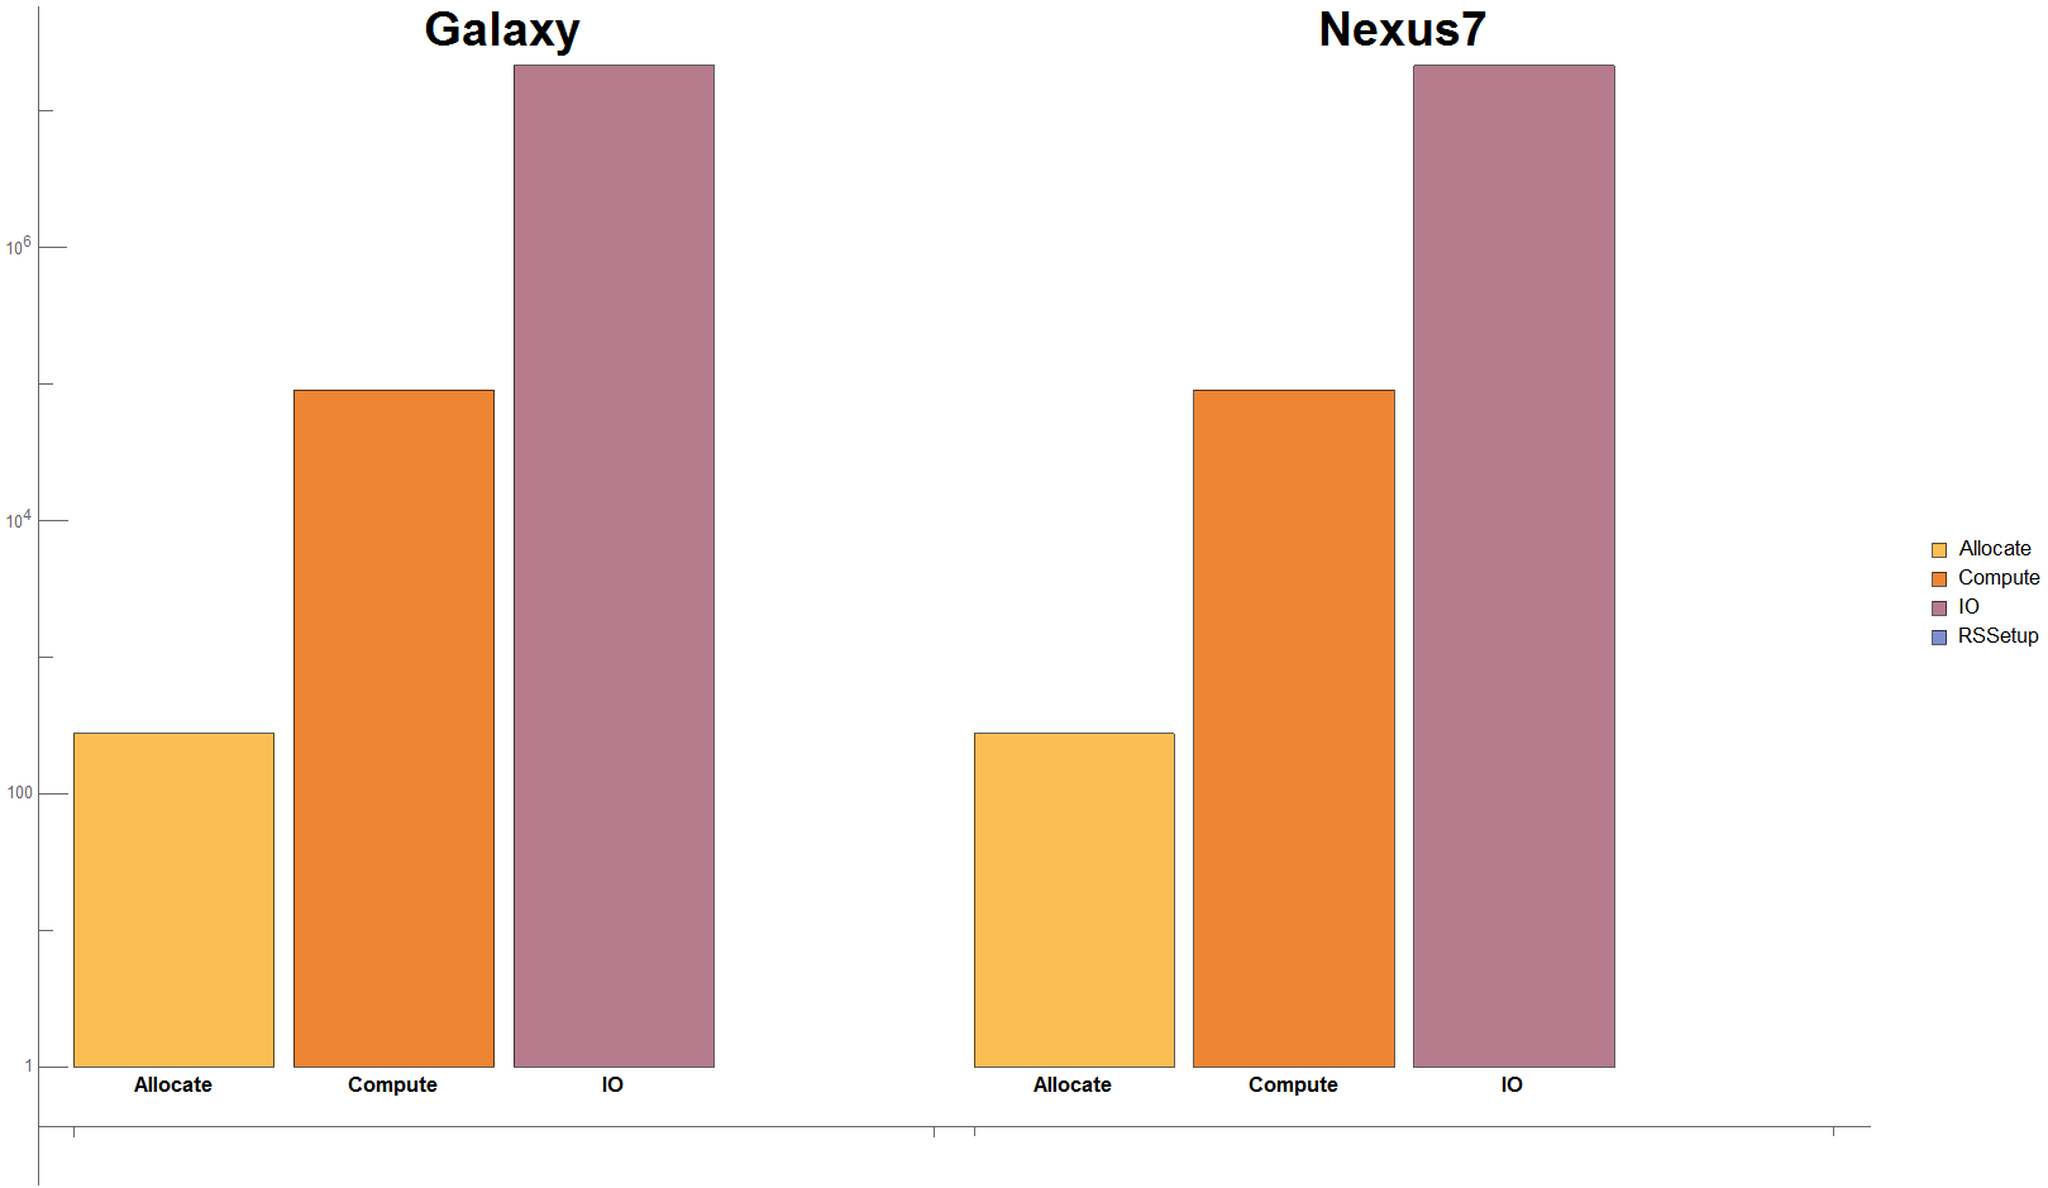
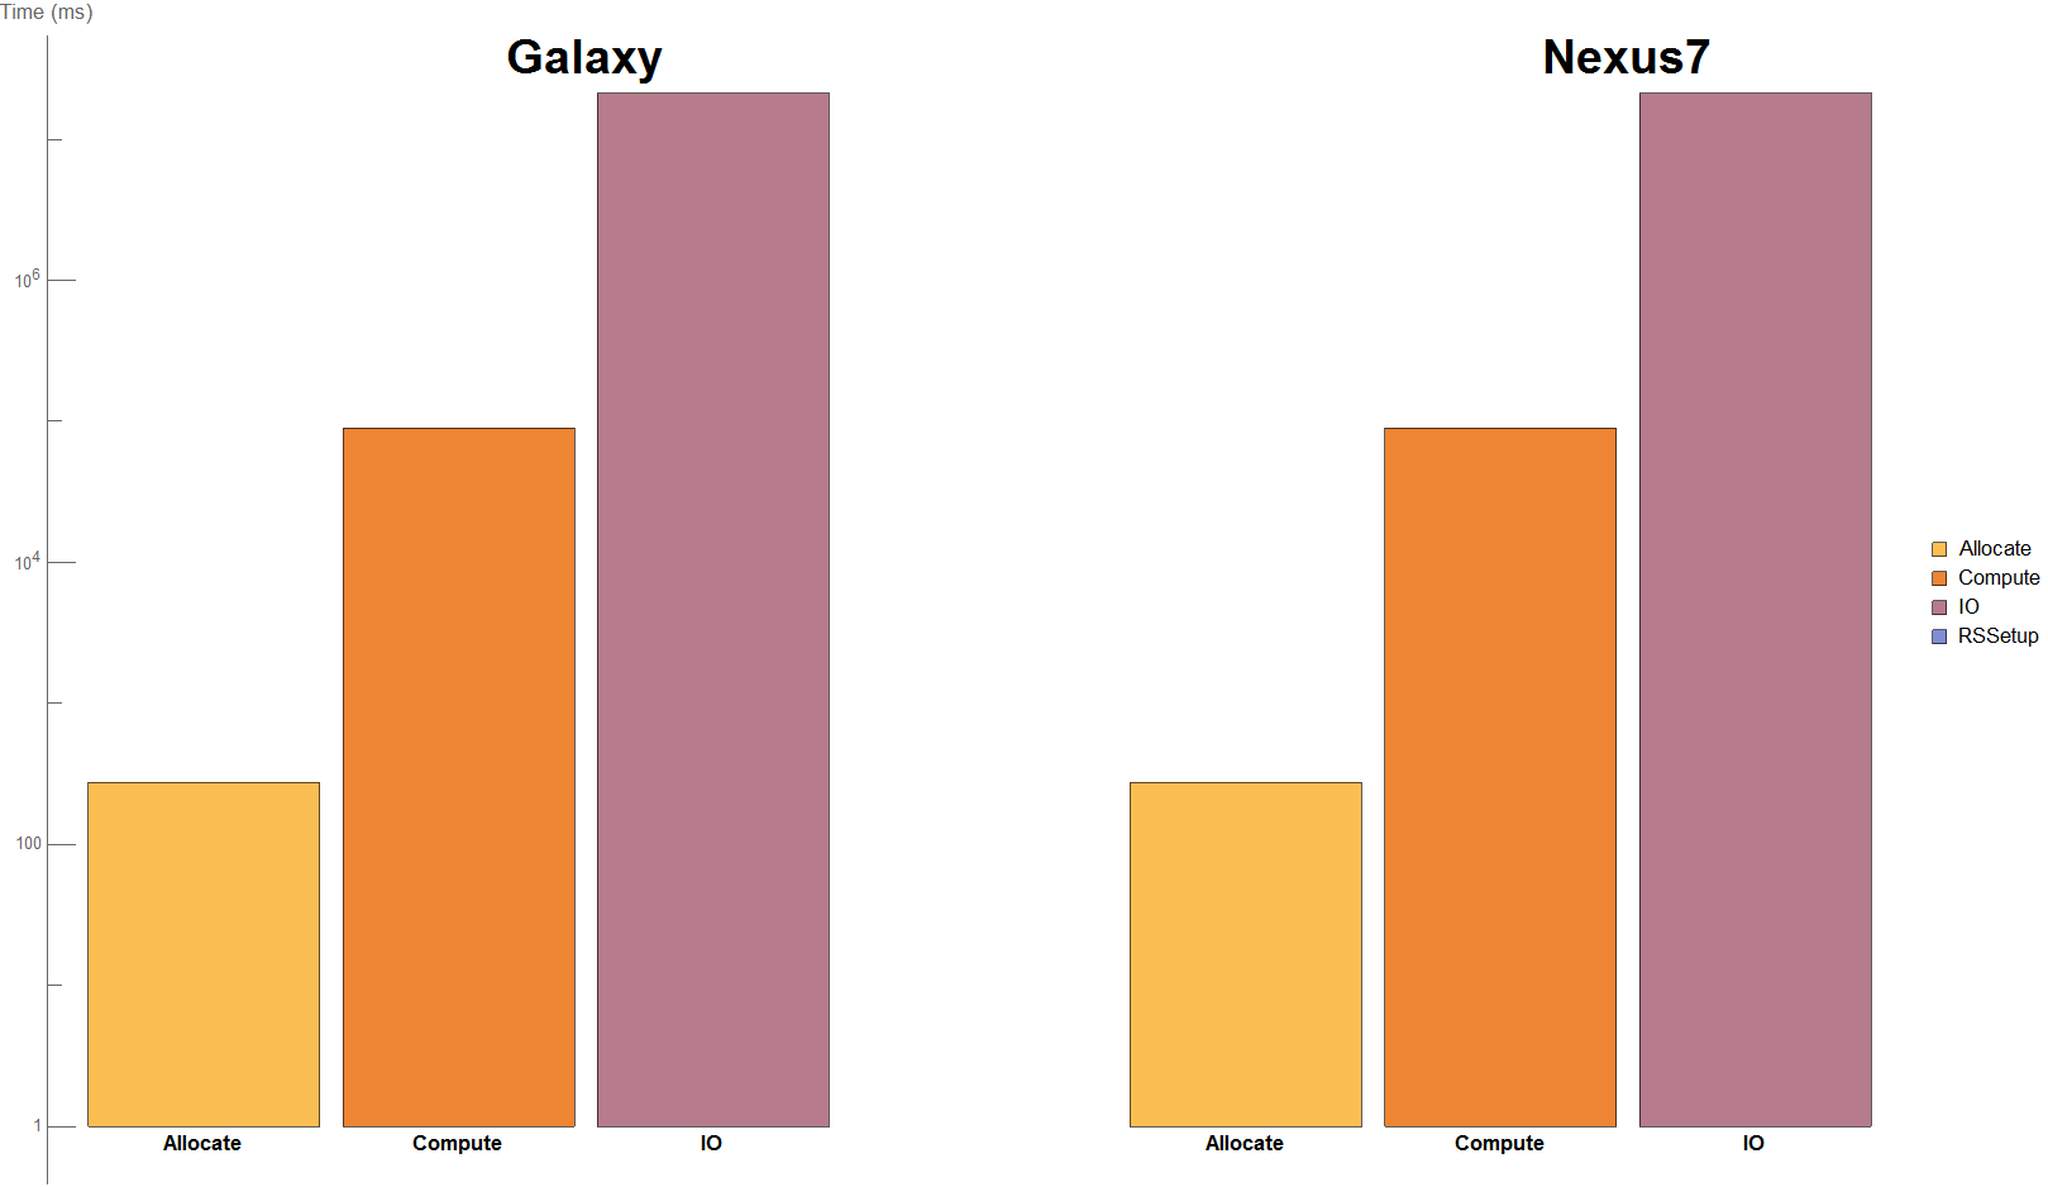
Add axes labels and the rest of the figures

diff --git a/progress/analysis.tex b/progress/analysis.tex
@@ -19,8 +19,6 @@ The second is a Samsung Galaxy Nexus with the following specs:
     GPU: PowerVR SGX 540.
 \end{verbatim}
 
-The Galaxy corresponds the the {\tt RSBench\_ARMv7}.
-
 
 \subsection*{Perliminary Results}
 
@@ -30,14 +28,14 @@ This is primarily due to a lack of time configuring the devices to run the bench
 
 
 \begin{figure}[t!]
-\includegraphics[scale=0.13]{VectorAddJava.png}
+\includegraphics[scale=0.125]{VectorAddJava.png}
 \caption{Vector add in serialized Java.}
 \label{fig:schedule}
 \centering
 \end{figure}
 
 \begin{figure}[t!]
-\includegraphics[scale=0.13]{VectorAddThreadedJava.png}
+\includegraphics[scale=0.125]{VectorAddThreadedJava.png}
 \caption{Vector add in threaded Java.}
 \label{fig:schedule}
 \centering
@@ -45,16 +43,40 @@ This is primarily due to a lack of time configuring the devices to run the bench
 
 
 \begin{figure}[t!]
-\includegraphics[scale=0.13]{VectorAddRS.png}
+\includegraphics[scale=0.125]{VectorAddRS.png}
 \caption{Vector add in Renderscript.}
 \label{fig:schedule}
 \centering
 \end{figure}
 
 
+
 \begin{figure}[t!]
-\includegraphics[scale=0.13]{SgemmRS.png}
+\includegraphics[scale=0.125]{SgemmJava.png}
+\caption{Matrix Matrix Multiplication in Java.}
+\label{fig:schedule}
+\centering
+\end{figure}
+
+\begin{figure}[t!]
+\includegraphics[scale=0.125]{SgemmRS.png}
 \caption{Matrix Matrix Multiplication in Renderscript.}
+\label{fig:schedule}
+\centering
+\end{figure}
+
+
+
+\begin{figure}[t!]
+\includegraphics[scale=0.125]{StencilJava.png}
+\caption{Stencil in Java.}
+\label{fig:schedule}
+\centering
+\end{figure}
+
+\begin{figure}[t!]
+\includegraphics[scale=0.125]{StencilRSBase.png}
+\caption{Stencil in Renderscript.}
 \label{fig:schedule}
 \centering
 \end{figure}
